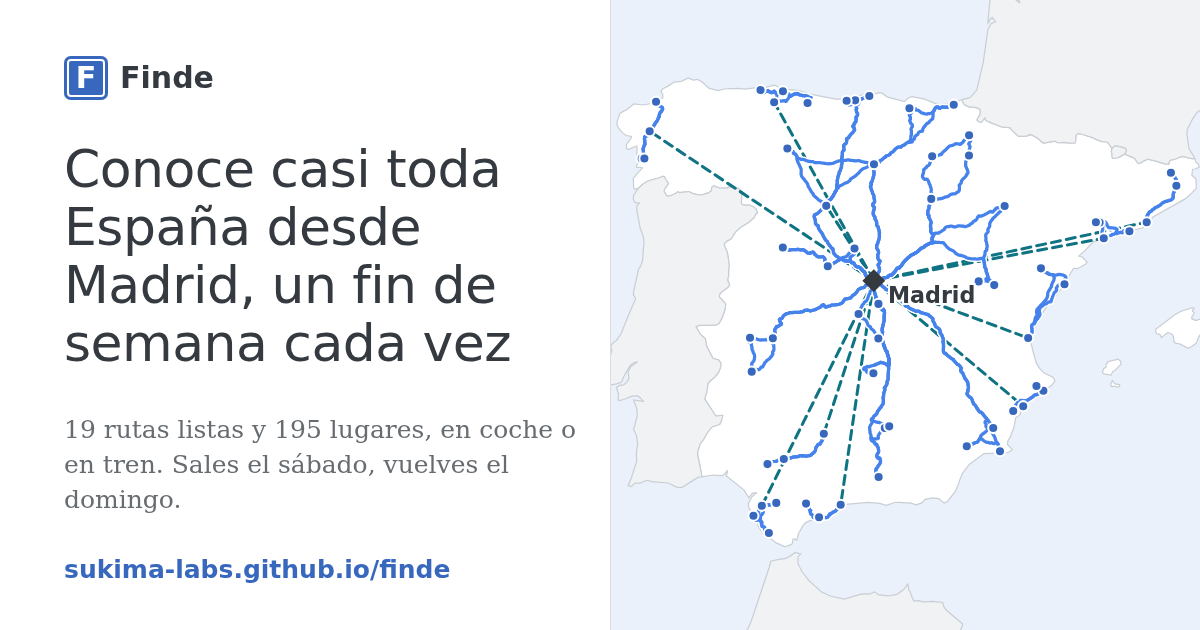
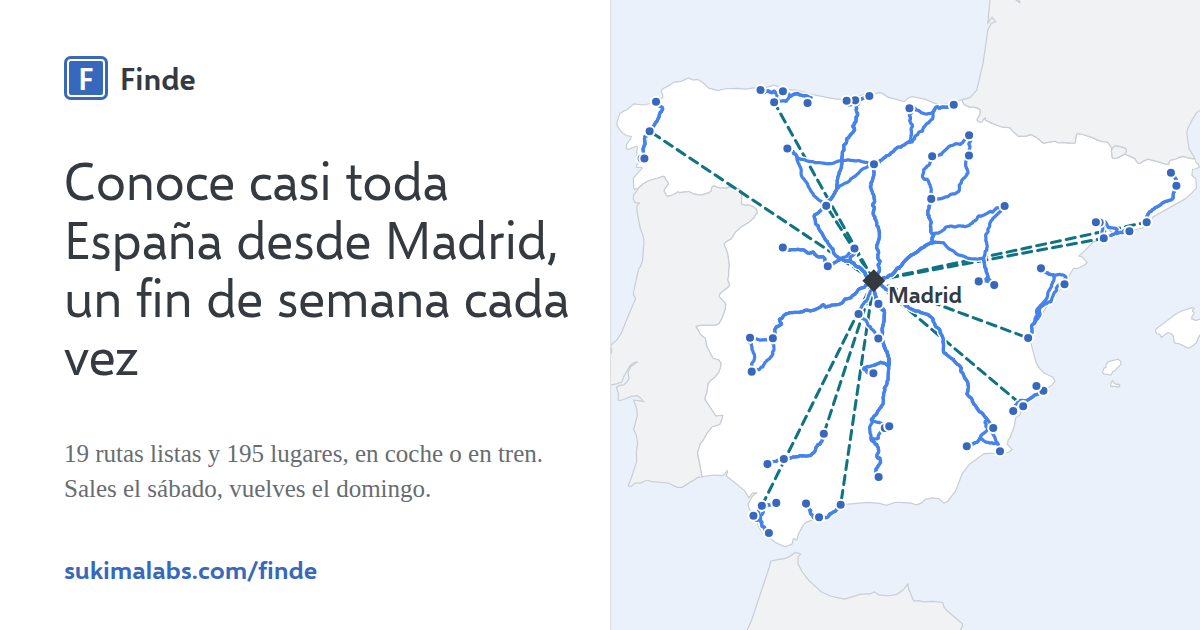
chore: la dirección propia pasa a https://sukimalabs.com/finde/
Sukima Labs tiene dominio propio; GitHub redirige la antigua. Textos, plantilla,
sitemap, robots, imágenes para compartir (regeneradas) y README.

diff --git a/docs/index.html b/docs/index.html
@@ -7,16 +7,16 @@
 <meta name="description" content="Rutas de sábado a domingo desde Madrid, en coche o en tren y coche de alquiler: 19 circuitos listos y cerca de doscientos lugares. Elige ciudades, ajusta el tiempo en cada una y comprueba si llegas a casa el domingo.">
 <meta name="color-scheme" content="light dark">
 <meta name="google-site-verification" content="s1TIlbmjL93XM59QImM3-l1OtaMeNN7oV5-nbAHBfOQ">
-<link rel="canonical" href="https://sukima-labs.github.io/finde/">
-<link rel="alternate" hreflang="es" href="https://sukima-labs.github.io/finde/">
-<link rel="alternate" hreflang="en" href="https://sukima-labs.github.io/finde/en/">
-<link rel="alternate" hreflang="x-default" href="https://sukima-labs.github.io/finde/">
+<link rel="canonical" href="https://sukimalabs.com/finde/">
+<link rel="alternate" hreflang="es" href="https://sukimalabs.com/finde/">
+<link rel="alternate" hreflang="en" href="https://sukimalabs.com/finde/en/">
+<link rel="alternate" hreflang="x-default" href="https://sukimalabs.com/finde/">
 <meta property="og:type" content="website">
-<meta property="og:url" content="https://sukima-labs.github.io/finde/">
+<meta property="og:url" content="https://sukimalabs.com/finde/">
 <meta property="og:title" content="Finde · Conoce casi toda España en escapadas de fin de semana desde Madrid">
 <meta property="og:description" content="19 rutas listas, en coche o en tren hasta Galicia, Barcelona o Málaga. Sales el sábado, vuelves el domingo y la página te dice si llegas.">
 <meta property="og:locale" content="es_ES">
-<meta property="og:image" content="https://sukima-labs.github.io/finde/og-es.png">
+<meta property="og:image" content="https://sukimalabs.com/finde/og-es.png">
 <meta property="og:image:width" content="1200">
 <meta property="og:image:height" content="630">
 <meta name="twitter:card" content="summary_large_image">

diff --git a/docs/en/index.html b/docs/en/index.html
@@ -7,16 +7,16 @@
 <meta name="description" content="Saturday-to-Sunday trips from Madrid, by car or by train and hire car: 19 ready-made circuits and nearly two hundred places. Pick the cities, set the time in each one and check that you are home on Sunday.">
 <meta name="color-scheme" content="light dark">
 <meta name="google-site-verification" content="s1TIlbmjL93XM59QImM3-l1OtaMeNN7oV5-nbAHBfOQ">
-<link rel="canonical" href="https://sukima-labs.github.io/finde/en/">
-<link rel="alternate" hreflang="es" href="https://sukima-labs.github.io/finde/">
-<link rel="alternate" hreflang="en" href="https://sukima-labs.github.io/finde/en/">
-<link rel="alternate" hreflang="x-default" href="https://sukima-labs.github.io/finde/">
+<link rel="canonical" href="https://sukimalabs.com/finde/en/">
+<link rel="alternate" hreflang="es" href="https://sukimalabs.com/finde/">
+<link rel="alternate" hreflang="en" href="https://sukimalabs.com/finde/en/">
+<link rel="alternate" hreflang="x-default" href="https://sukimalabs.com/finde/">
 <meta property="og:type" content="website">
-<meta property="og:url" content="https://sukima-labs.github.io/finde/en/">
+<meta property="og:url" content="https://sukimalabs.com/finde/en/">
 <meta property="og:title" content="Finde · See most of Spain on weekend road trips from Madrid">
 <meta property="og:description" content="19 ready-made routes, by car or by train to Galicia, Barcelona or Málaga. Leave on Saturday, come back on Sunday, and the page tells you if it fits.">
 <meta property="og:locale" content="en_GB">
-<meta property="og:image" content="https://sukima-labs.github.io/finde/og-en.png">
+<meta property="og:image" content="https://sukimalabs.com/finde/og-en.png">
 <meta property="og:image:width" content="1200">
 <meta property="og:image:height" content="630">
 <meta name="twitter:card" content="summary_large_image">

diff --git a/herramientas/plantilla.html b/herramientas/plantilla.html
@@ -8,15 +8,15 @@
 <meta name="color-scheme" content="light dark">
 <meta name="google-site-verification" content="s1TIlbmjL93XM59QImM3-l1OtaMeNN7oV5-nbAHBfOQ">
 <link rel="canonical" href="{{url}}">
-<link rel="alternate" hreflang="es" href="https://sukima-labs.github.io/finde/">
-<link rel="alternate" hreflang="en" href="https://sukima-labs.github.io/finde/en/">
-<link rel="alternate" hreflang="x-default" href="https://sukima-labs.github.io/finde/">
+<link rel="alternate" hreflang="es" href="https://sukimalabs.com/finde/">
+<link rel="alternate" hreflang="en" href="https://sukimalabs.com/finde/en/">
+<link rel="alternate" hreflang="x-default" href="https://sukimalabs.com/finde/">
 <meta property="og:type" content="website">
 <meta property="og:url" content="{{url}}">
 <meta property="og:title" content="{{title}}">
 <meta property="og:description" content="{{og_description}}">
 <meta property="og:locale" content="{{locale}}">
-<meta property="og:image" content="https://sukima-labs.github.io/finde/og-{{lang}}.png">
+<meta property="og:image" content="https://sukimalabs.com/finde/og-{{lang}}.png">
 <meta property="og:image:width" content="1200">
 <meta property="og:image:height" content="630">
 <meta name="twitter:card" content="summary_large_image">

diff --git a/herramientas/og.html b/herramientas/og.html
@@ -19,7 +19,7 @@ svg{width:590px;height:630px;display:block}
   <div class="marca"><span class="senal">F</span> Finde</div>
   <div><h1 id="h1"></h1></div>
   <p id="sub"></p>
-  <div class="url">sukima-labs.github.io/finde</div>
+  <div class="url">sukimalabs.com/finde</div>
 </div>
 <div class="mapa"><svg id="m"></svg></div>
 <script type="module">

diff --git a/herramientas/construir.py b/herramientas/construir.py
@@ -127,9 +127,9 @@ for idioma, destino in (("es", "docs/index.html"), ("en", "docs/en/index.html"))
     '<?xml version="1.0" encoding="UTF-8"?>\n'
     '<urlset xmlns="http://www.sitemaps.org/schemas/sitemap/0.9" xmlns:xhtml="http://www.w3.org/1999/xhtml">\n'
     + "".join(f'  <url><loc>{u}</loc>'
-              '<xhtml:link rel="alternate" hreflang="es" href="https://sukima-labs.github.io/finde/"/>'
-              '<xhtml:link rel="alternate" hreflang="en" href="https://sukima-labs.github.io/finde/en/"/></url>\n'
-              for u in ("https://sukima-labs.github.io/finde/", "https://sukima-labs.github.io/finde/en/"))
+              '<xhtml:link rel="alternate" hreflang="es" href="https://sukimalabs.com/finde/"/>'
+              '<xhtml:link rel="alternate" hreflang="en" href="https://sukimalabs.com/finde/en/"/></url>\n'
+              for u in ("https://sukimalabs.com/finde/", "https://sukimalabs.com/finde/en/"))
     + "</urlset>\n")
 print(f"docs/: datos.json ({(RAIZ / 'docs/datos.json').stat().st_size // 1024} KB), "
       f"catalogo.json ({(RAIZ / 'docs/catalogo.json').stat().st_size // 1024} KB), index.html, en/index.html, sitemap.xml · "

diff --git a/README.md b/README.md
@@ -1,6 +1,6 @@
 # Finde
 
-**Escapadas de fin de semana desde Madrid, en coche o en tren y coche de alquiler** → <https://sukima-labs.github.io/finde/>
+**Escapadas de fin de semana desde Madrid, en coche o en tren y coche de alquiler** → <https://sukimalabs.com/finde/>
 
 Diecinueve circuitos de sábado a domingo, uno por región, que entre todos cubren la península sin
 repetir ciudad: salida el sábado por la mañana, una noche fuera y vuelta a Madrid el domingo por la
